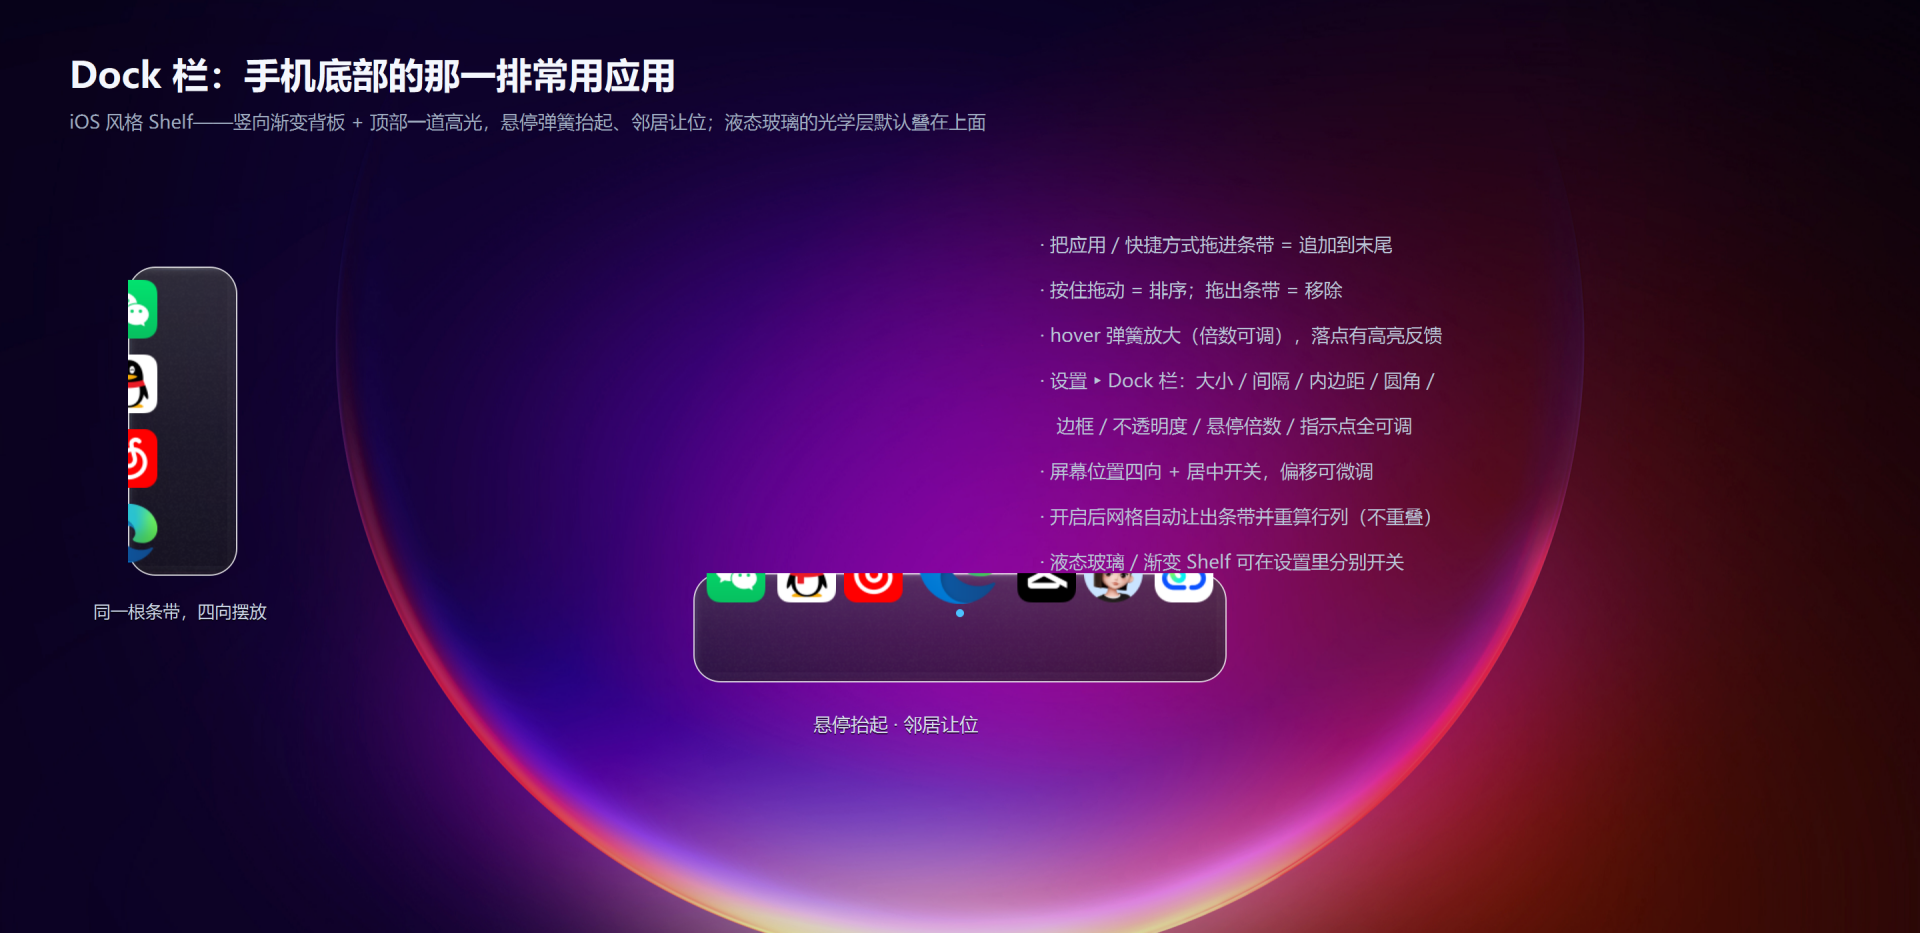
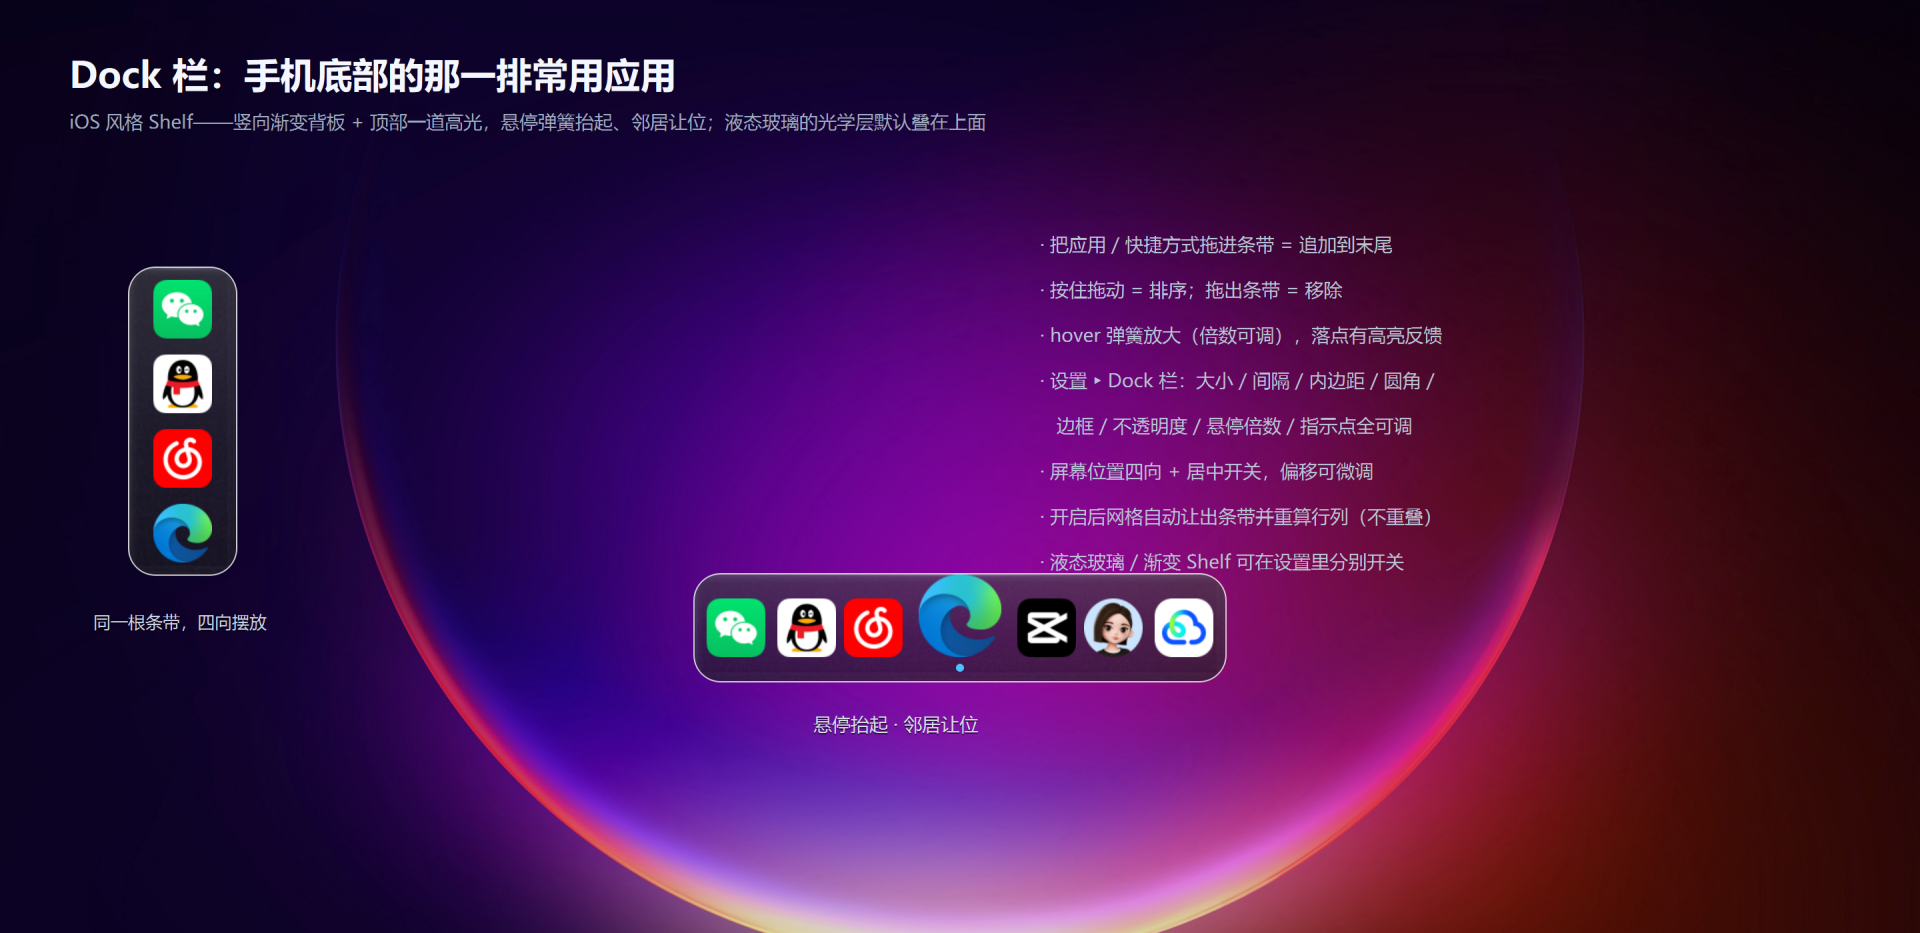
docs(shot): Dock 展示图图标居中——截图走 apply_geometry 而非 resize
item_rect() 的位置依赖 apply_geometry() 求出的 _bar；只 resize() 时
_bar 仍是 (0,0,0,0)，(h - icon)//2 变成 -22，图标全部顶到条带上沿并被截。
改为真实几何 + _snap() 渲染 pixmap 再贴画布，悬停标注位置也从 item_rect 反推。

Changed region(s): [[0.3438, 0.5906, 0.6562, 0.7149], [0.0625, 0.2797, 0.125, 0.6217], [0.0312, 0.6527, 0.1562, 0.6838]]

diff --git a/tools/shot_readme.py b/tools/shot_readme.py
@@ -945,10 +945,13 @@ def shot_dock():
     两个真实 `DockWindow`：底部横向（7 个应用，第 4 个停在悬停放大态）
     + 左侧竖向（4 个应用）——位置四向可调用"左右各一个"演示，比空口说
     四向更直观。液态玻璃默认开着（v14 反馈 9），色散/透镜边直接入镜。
+
+    **必须走 `apply_geometry()`**：图标位置由 `item_rect(bar, …)` 算，
+    `bar` 是 `apply_geometry` 里才求出来的。只 `resize()` 的话 `_bar`
+    还是 (0,0,0,0)，`(h - icon)//2` 变成 `(0 - 44)//2 = -22`——图标全部
+    顶到条带上沿并截掉一半（2026-10-24 用户指出"图标没有居中"的真因）。
     """
-    from PySide6.QtCore import QPoint
     from PySide6.QtGui import QPainter
-    from PySide6.QtWidgets import QWidget
 
     from src import dock as dockmod
 
@@ -957,7 +960,12 @@ def shot_dock():
 
     d = dockmod.DockWindow(st)
     d.setAttribute(Qt.WA_DontShowOnScreen, True)
-    d.resize(400, 82)
+    orig_show = dockmod.DockWindow.show
+    dockmod.DockWindow.show = lambda self: None      # 别在用户屏幕上闪一下
+    try:
+        d.apply_geometry((W, H))                    # 真实几何：算出 _bar + setGeometry
+    finally:
+        dockmod.DockWindow.show = orig_show
     d._hover_index = 3               # 第 4 个图标：停在"被悬停"的稳态
     d._set_hover_t(1.0)
     QApplication.processEvents()
@@ -967,8 +975,16 @@ def shot_dock():
                     dock_items=demo_apps.entries(demo_apps.DESKTOP[:4]))
     dv = dockmod.DockWindow(st_v)
     dv.setAttribute(Qt.WA_DontShowOnScreen, True)
-    dv.resize(82, 4 * 44 + 3 * 12 + 20)
+    dockmod.DockWindow.show = lambda self: None
+    try:
+        dv.apply_geometry((W, H))
+    finally:
+        dockmod.DockWindow.show = orig_show
     QApplication.processEvents()
+
+    # 渲染成 pixmap 再贴到画布：窗口自身尺寸 == 条带尺寸，图标才与背板对齐
+    pm = _snap(d)
+    pm_v = _snap(dv)
 
     img = _blank()
     p = QPainter(img)
@@ -978,18 +994,22 @@ def shot_dock():
               "邻居让位；液态玻璃的光学层默认叠在上面", 52, 78, 14, "#9DAABF",
            w=1240)
 
-    # 底部横向主 Dock（壁纸上居中偏下；与右侧要点列表错开，不叠字）
-    dx, dy = (W - 400) // 2, 430
-    d.render(p, QPoint(dx, dy), d.rect(), QWidget.DrawChildren)
-    # 悬停标注：箭头 + 文案指向被放大的那个图标（第 4 个的中心 x）
-    hx = dx + 10 + 3 * (44 + 12) + 22
-    _label(p, "悬停抬起 · 邻居让位", hx - 110, dy + 100, 14, "#D7DEEA",
+    # 底部横向主 Dock（与右侧要点列表错开，不叠字）
+    bw = int(d.size().width())
+    bh = int(d.size().height())
+    dx, dy = (W - bw) // 2, 430
+    p.drawPixmap(int(dx), int(dy), pm)
+    # 悬停标注：从真实 item_rect 反推第 4 个图标的中心（drawPixmap 偏移后）
+    ix, _iy, iw, _ih = dockmod.item_rect(d._bar, d._position, d._m, 3)
+    hx = dx + (ix - d._bar[0]) + iw // 2
+    _label(p, "悬停抬起 · 邻居让位", hx - 110, dy + bh + 18, 14, "#D7DEEA",
            w=240, shadow=True)
 
     # 左侧竖向小 Dock
+    vw, vh = int(dv.size().width()), int(dv.size().height())
     vx, vy = 96, 200
-    dv.render(p, QPoint(vx, vy), dv.rect(), QWidget.DrawChildren)
-    _label(p, "同一根条带，四向摆放", vx - 26, vy + 4 * 44 + 3 * 12 + 34, 13,
+    p.drawPixmap(int(vx), int(vy), pm_v)
+    _label(p, "同一根条带，四向摆放", vx - 26, vy + vh + 22, 13,
            "#CBD5E6", w=220, shadow=True)
 
     # 右侧：这个栏能做什么（按"用户会怎么用它"组织，不按代码结构）
